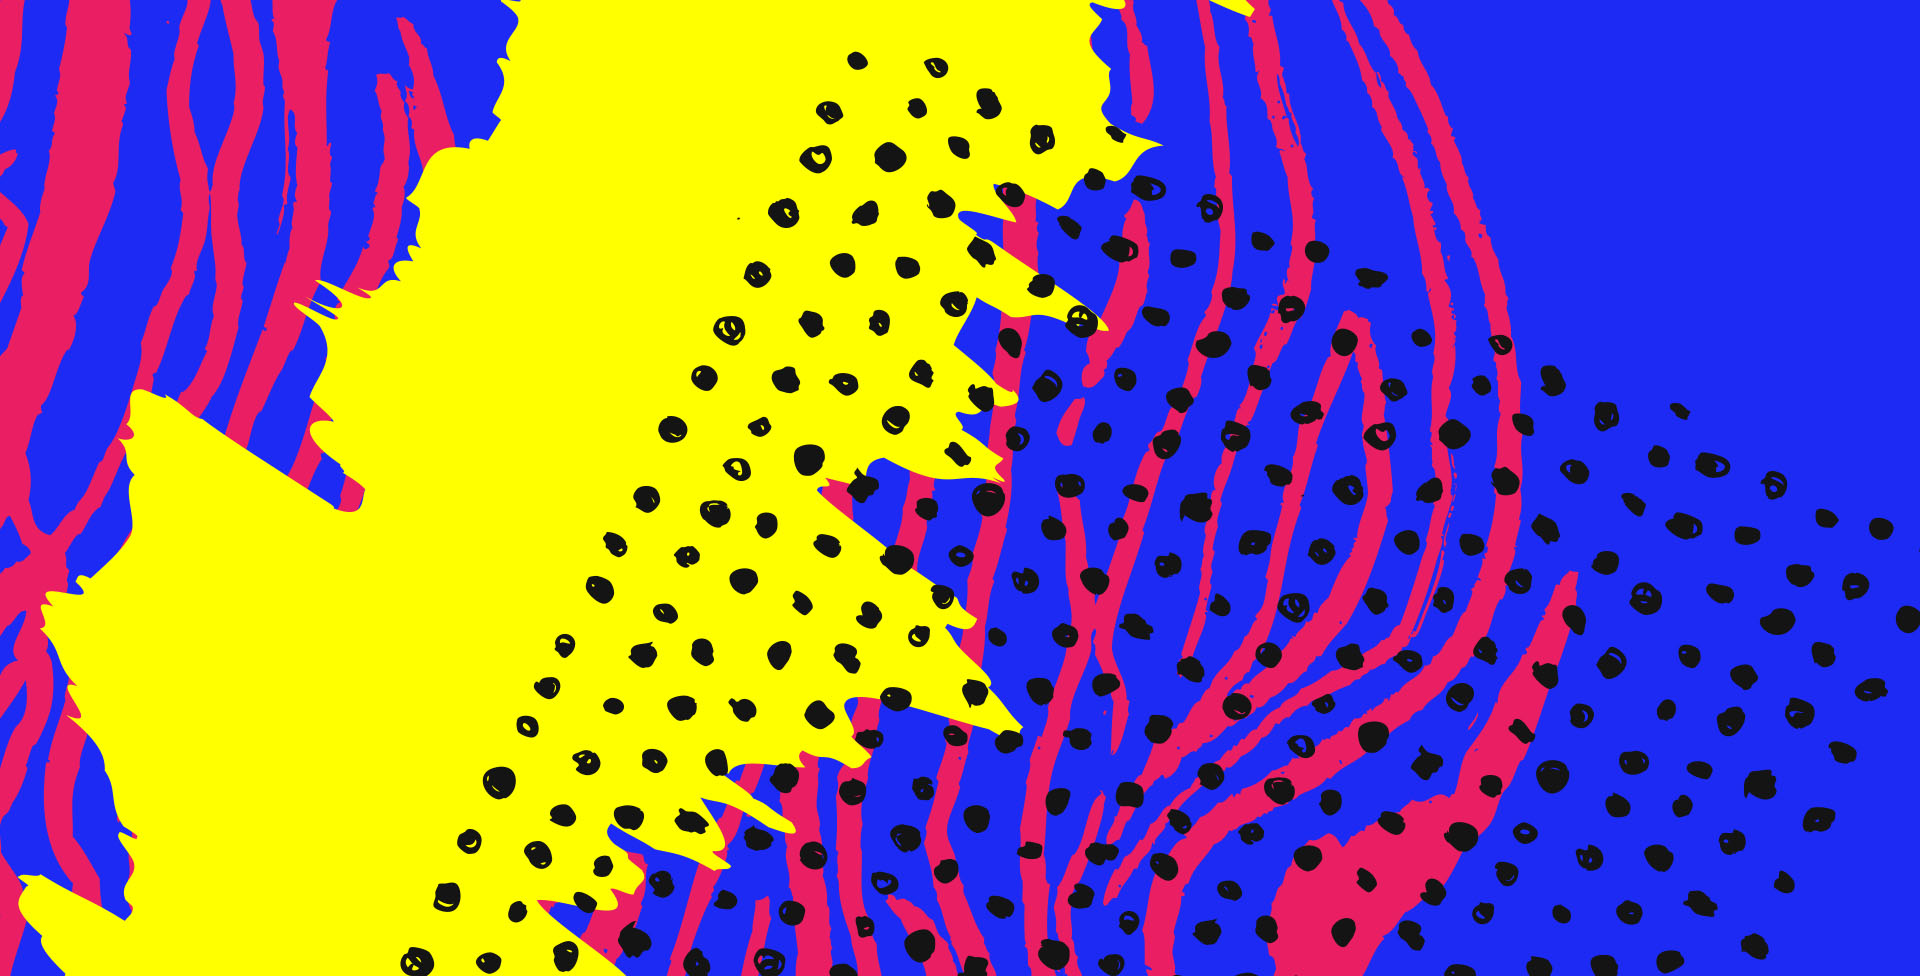
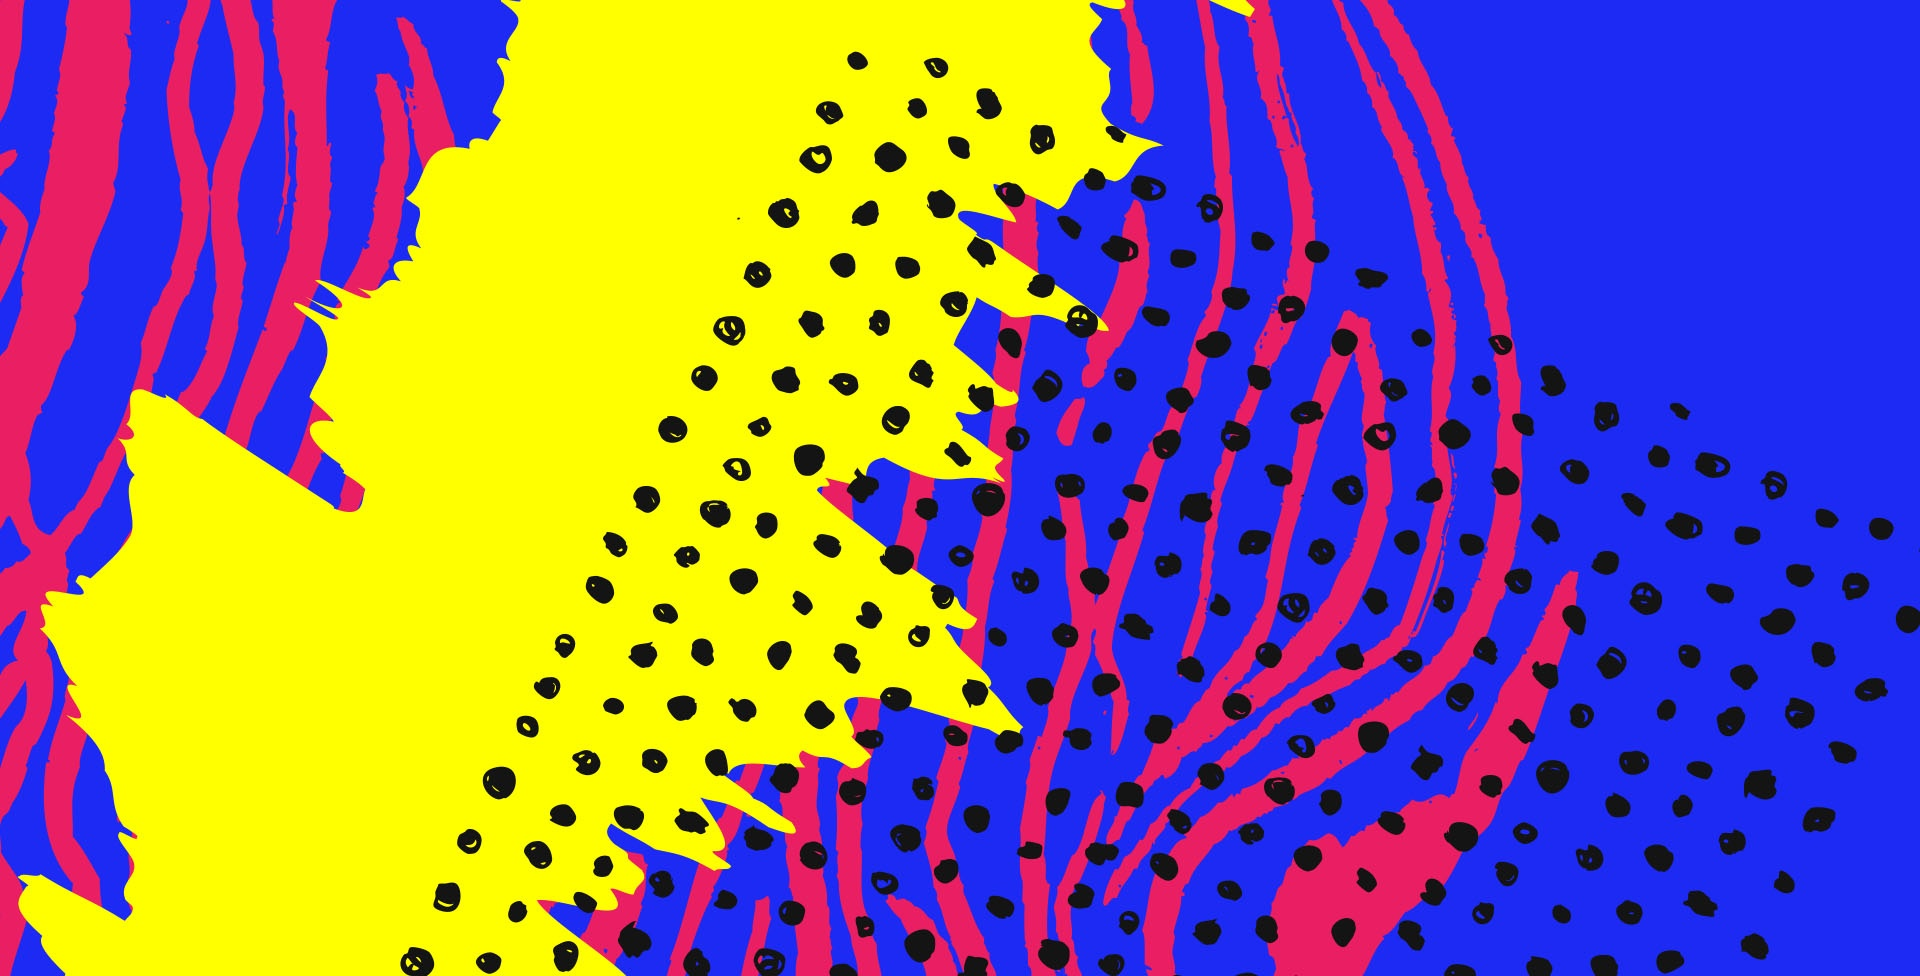
Update

diff --git a/css/style.css b/css/style.css
@@ -394,7 +394,7 @@ p {
   .content-block .person-img {
     height: 150px;
     width: 150px;
-    background: url(../img/candidate.png);
+    background: url(../img/candidate.jpg);
     border-radius: 50%;
     background-repeat: no-repeat;
     background-size: cover; }

diff --git a/scss/style.scss b/scss/style.scss
@@ -467,7 +467,7 @@ p{
 	.person-img {
 		height:150px;
 		width:150px;
-		background:url(../img/candidate.png);
+		background:url(../img/candidate.jpg);
 		border-radius:50%;
 		background-repeat:no-repeat;
 		background-size:cover;
